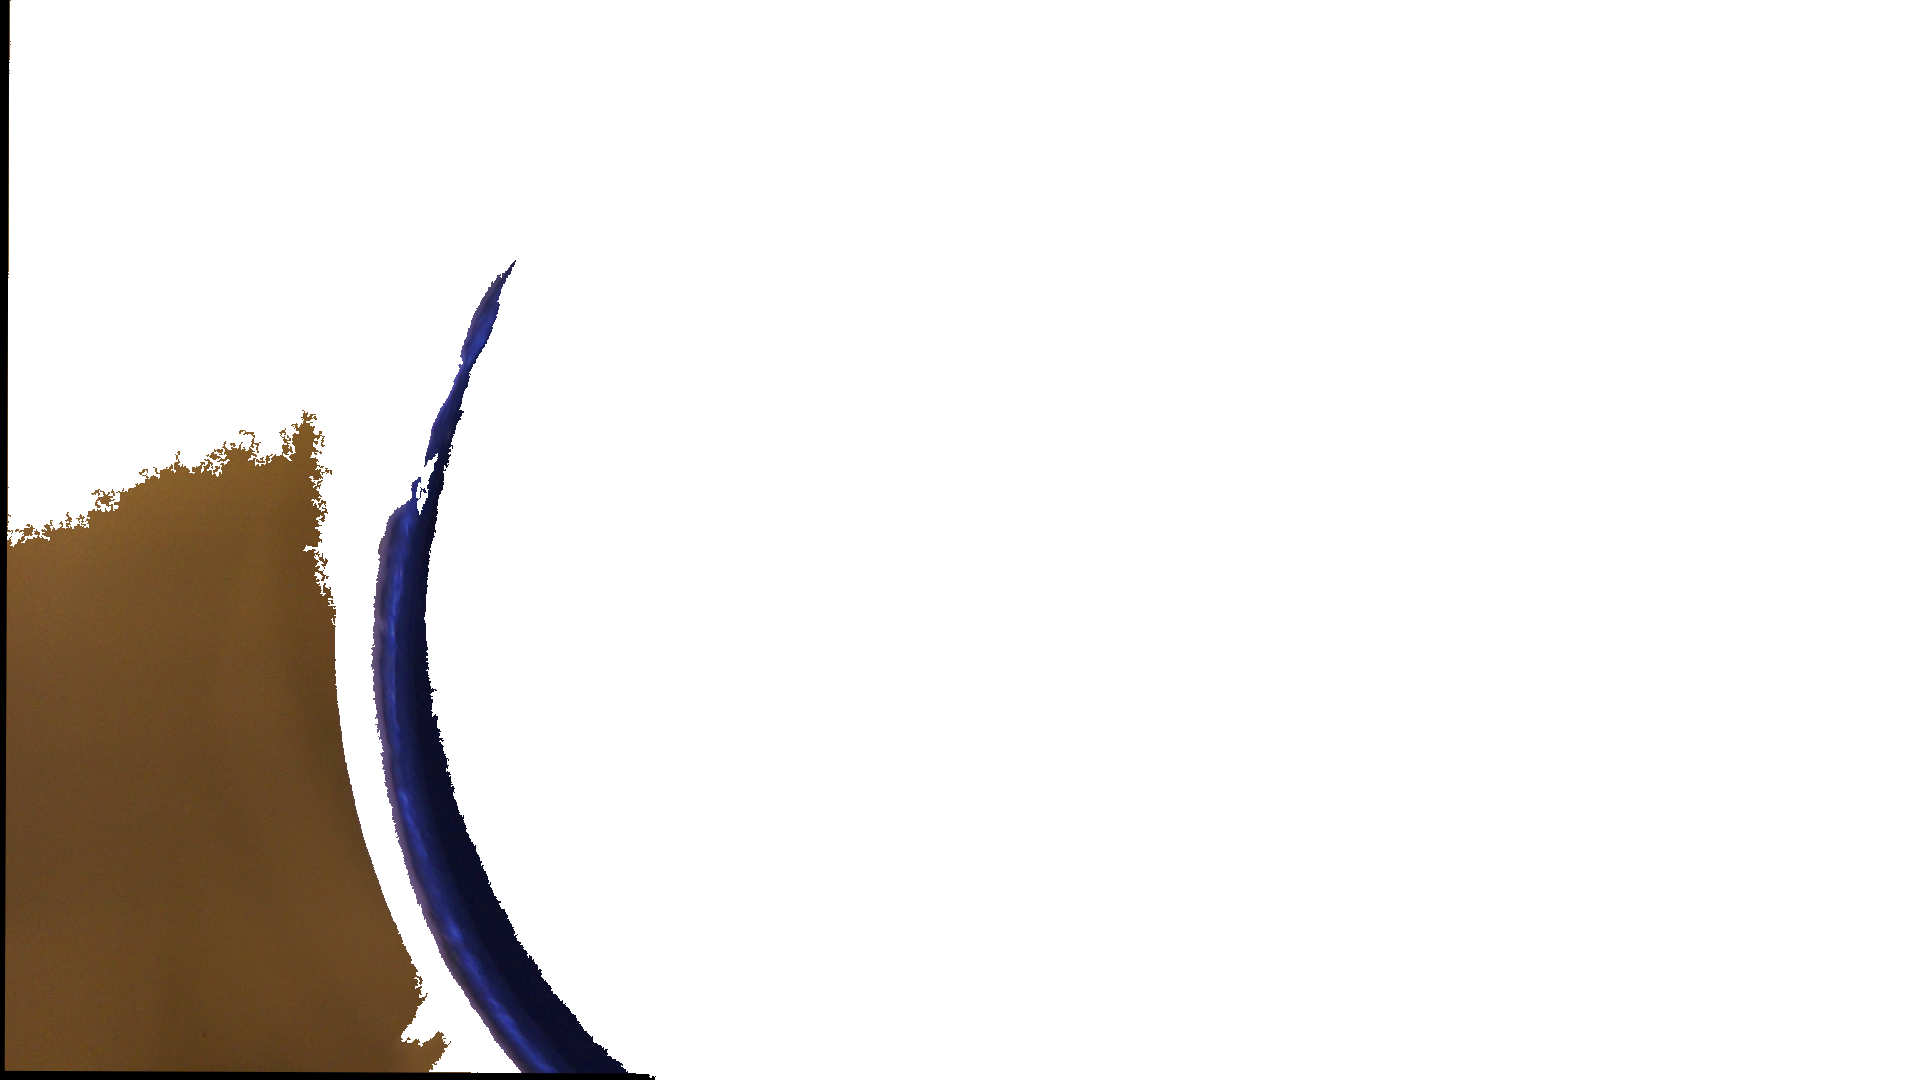
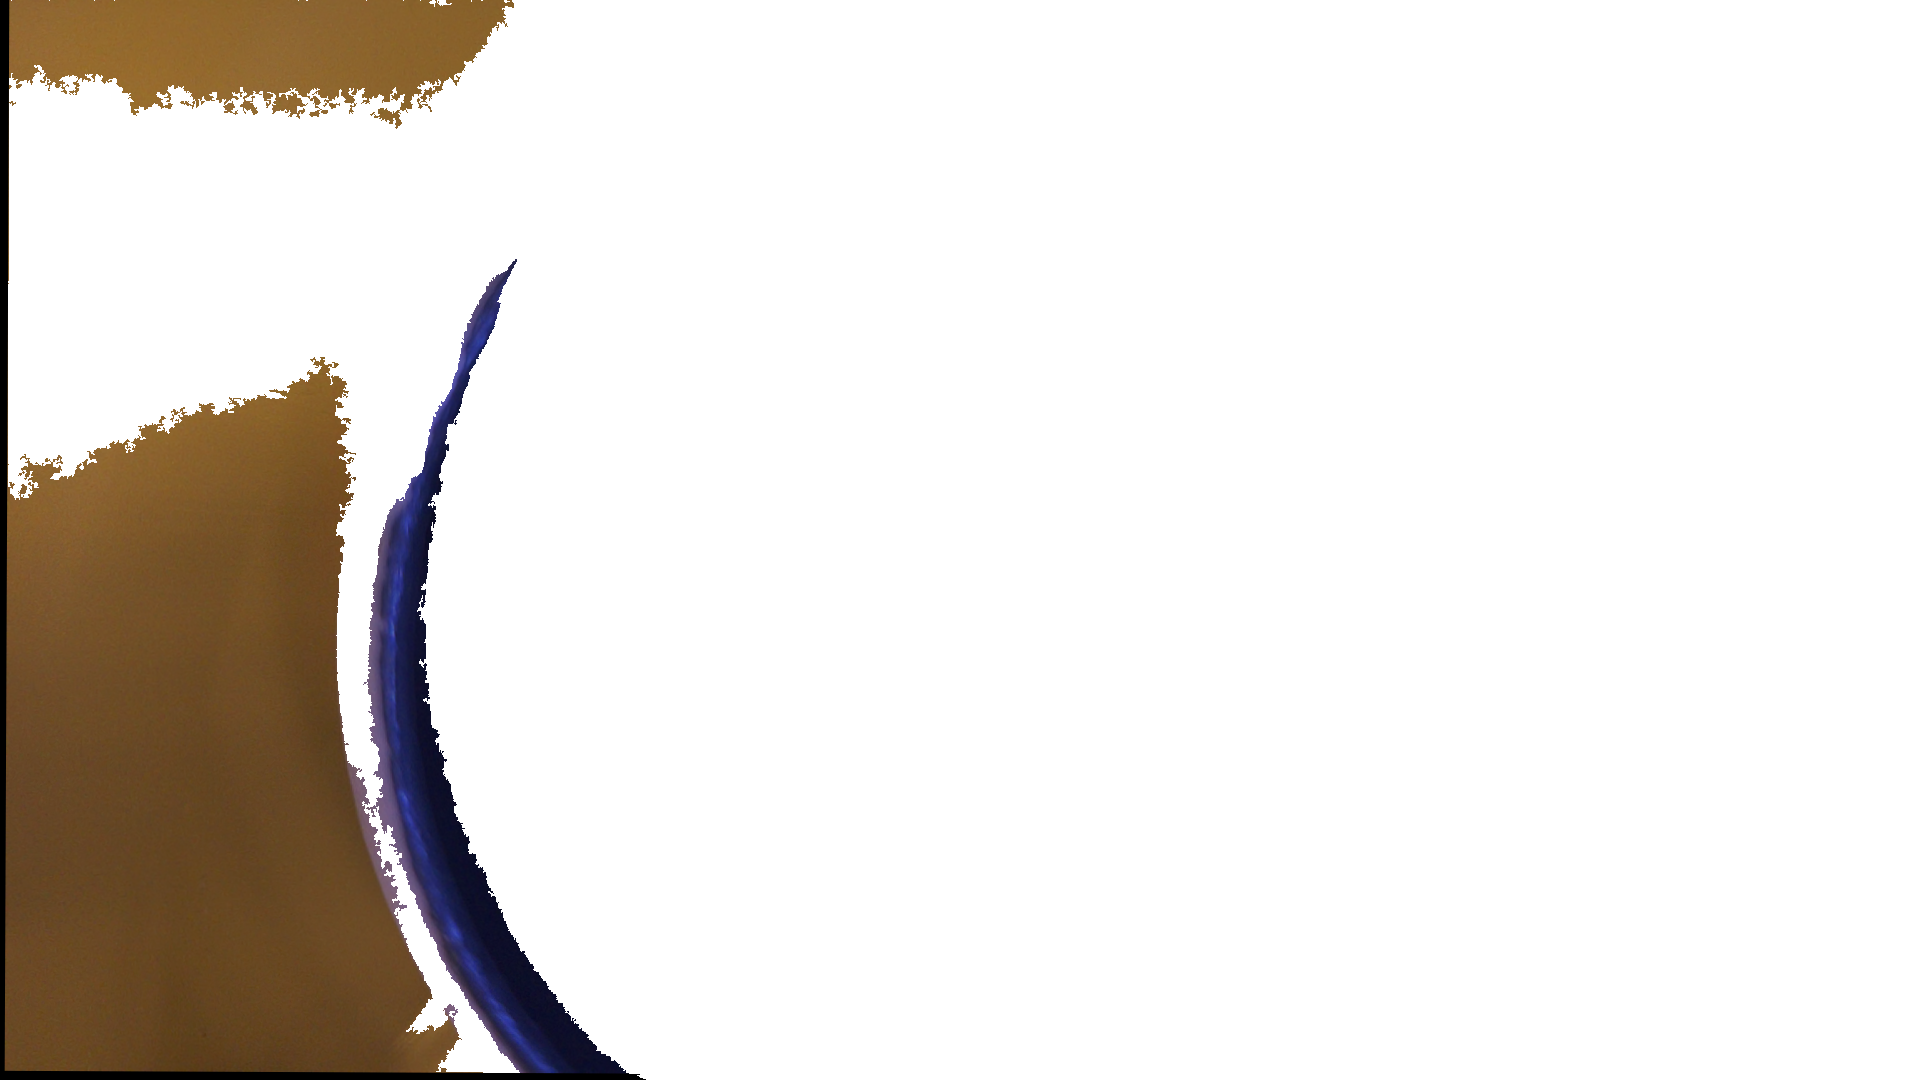
merge rpis

diff --git a/src_train_test/1_CreateDataset.py b/src_train_test/1_CreateDataset.py
@@ -48,14 +48,19 @@ def align_images_method_ECC(reference, image):
 
     return cc, aligned_image
 
-def extract_object(reference, image):
+def extract_object(reference, image, fileindex):
     # Convert images to grayscale
     gray_ref = cv2.cvtColor(reference, cv2.COLOR_BGR2GRAY)
     gray_img = cv2.cvtColor(image, cv2.COLOR_BGR2GRAY)
+    _, _, red_ref = cv2.split(reference)
+    _, _, red_img = cv2.split(image)
+
+    gray_ref = red_ref.copy()
+    gray_img = red_img.copy()
 
     # Compute absolute difference
     diff = cv2.absdiff(gray_img, gray_ref)
-    cv2.imwrite('../Images/diff.png', diff)
+    cv2.imwrite(f'../Images/Diff/diff_{fileindex:03d}.png', diff)
     _, thresh = cv2.threshold(diff, 20, 128, cv2.THRESH_BINARY)
 
     # Find contours
@@ -139,6 +144,12 @@ PATH_BAD_INPUT_IMAGES = '../Images/Originals/GeenPeukjes'
 PATH_ROTATED_BAD_IMAGES = '../Images/Dataset'
 
 def main():
+
+    cwd = os.getcwd()
+    print(cwd)
+    if 'src_train_test' not in cwd:
+        os.chdir('src_train_test')    
+
     reference_img = cv2.imread(PATH_REFERENCE_IMAGE)
     href, wref = reference_img.shape[:2]
 
@@ -163,7 +174,7 @@ def main():
             print(f"ECC Score for {fileindex+1}:", confidence)
 
             if confidence > 0.1:
-                object_rgba, bbox = extract_object(reference_img, aligned_img)
+                object_rgba, bbox = extract_object(reference_img, aligned_img, fileindex)
                 todirfn = os.path.join(PATH_EXTRACT, f'{fromfn}_{fileindex+1:03d}_extract.png')
                 cv2.imwrite(todirfn, object_rgba)
 
